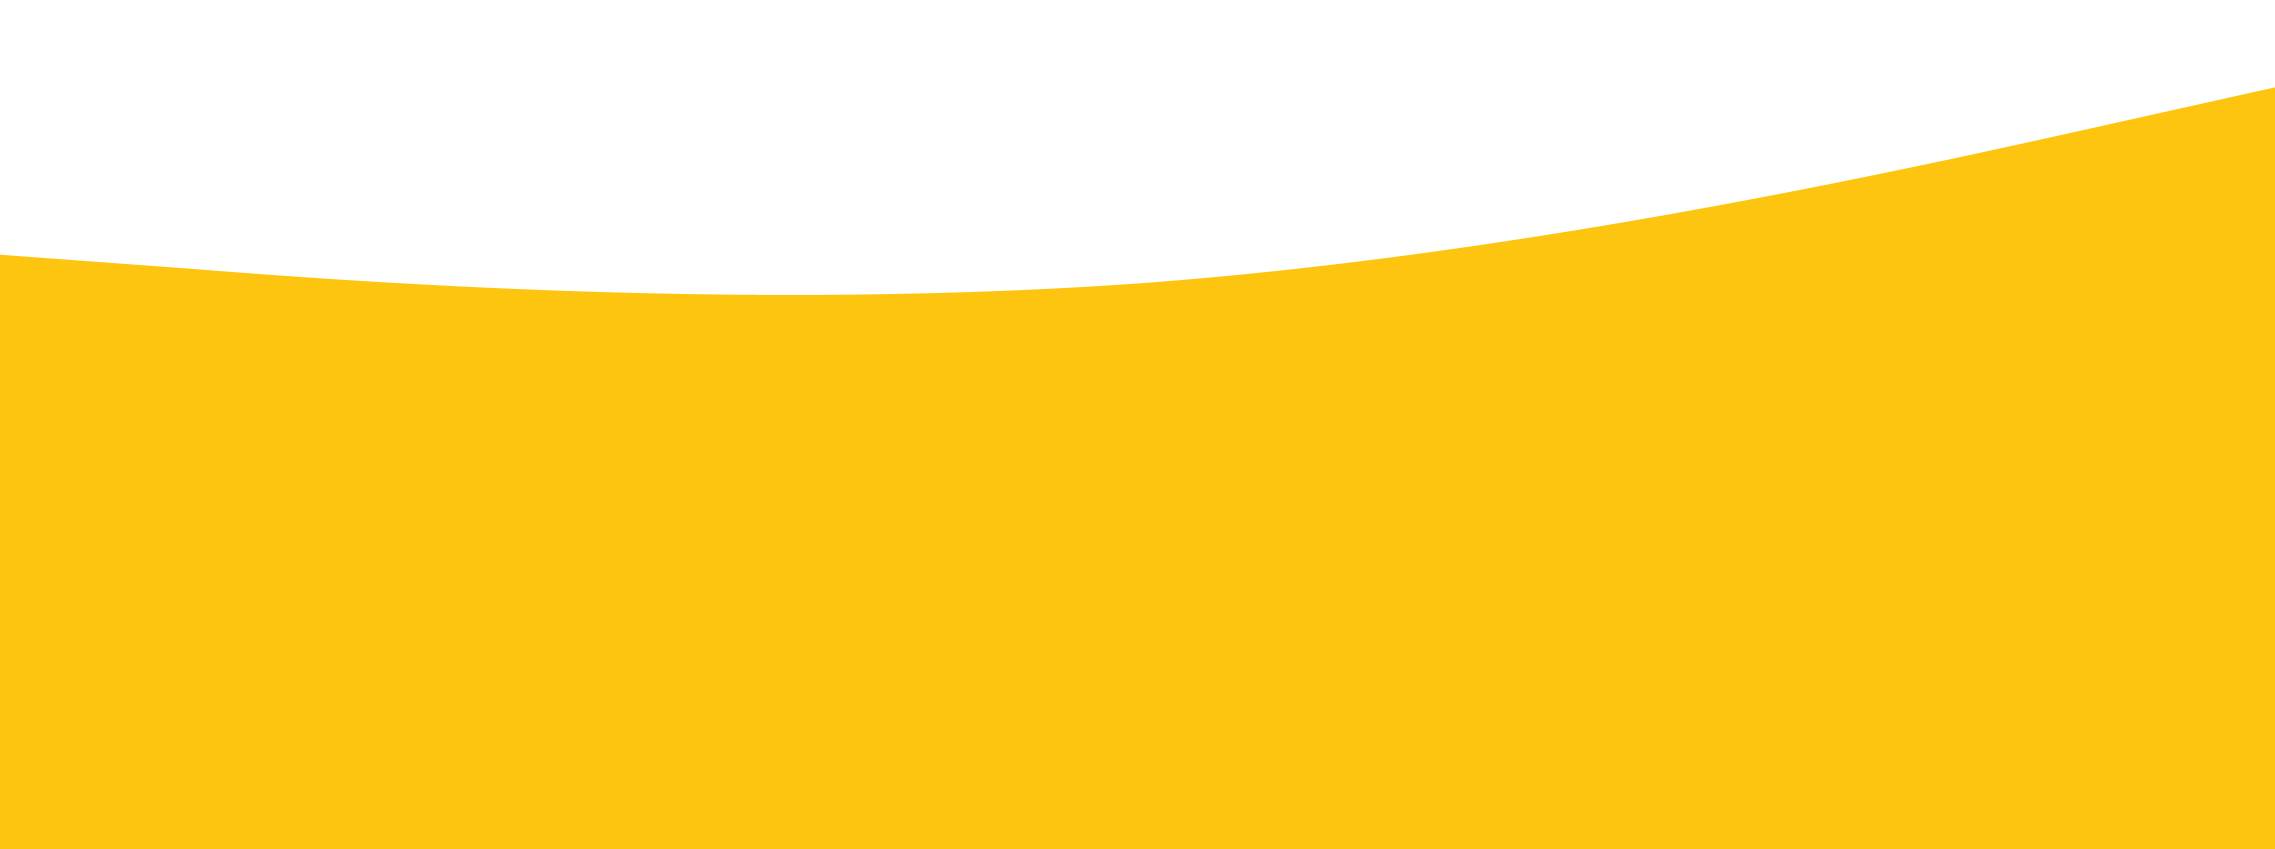
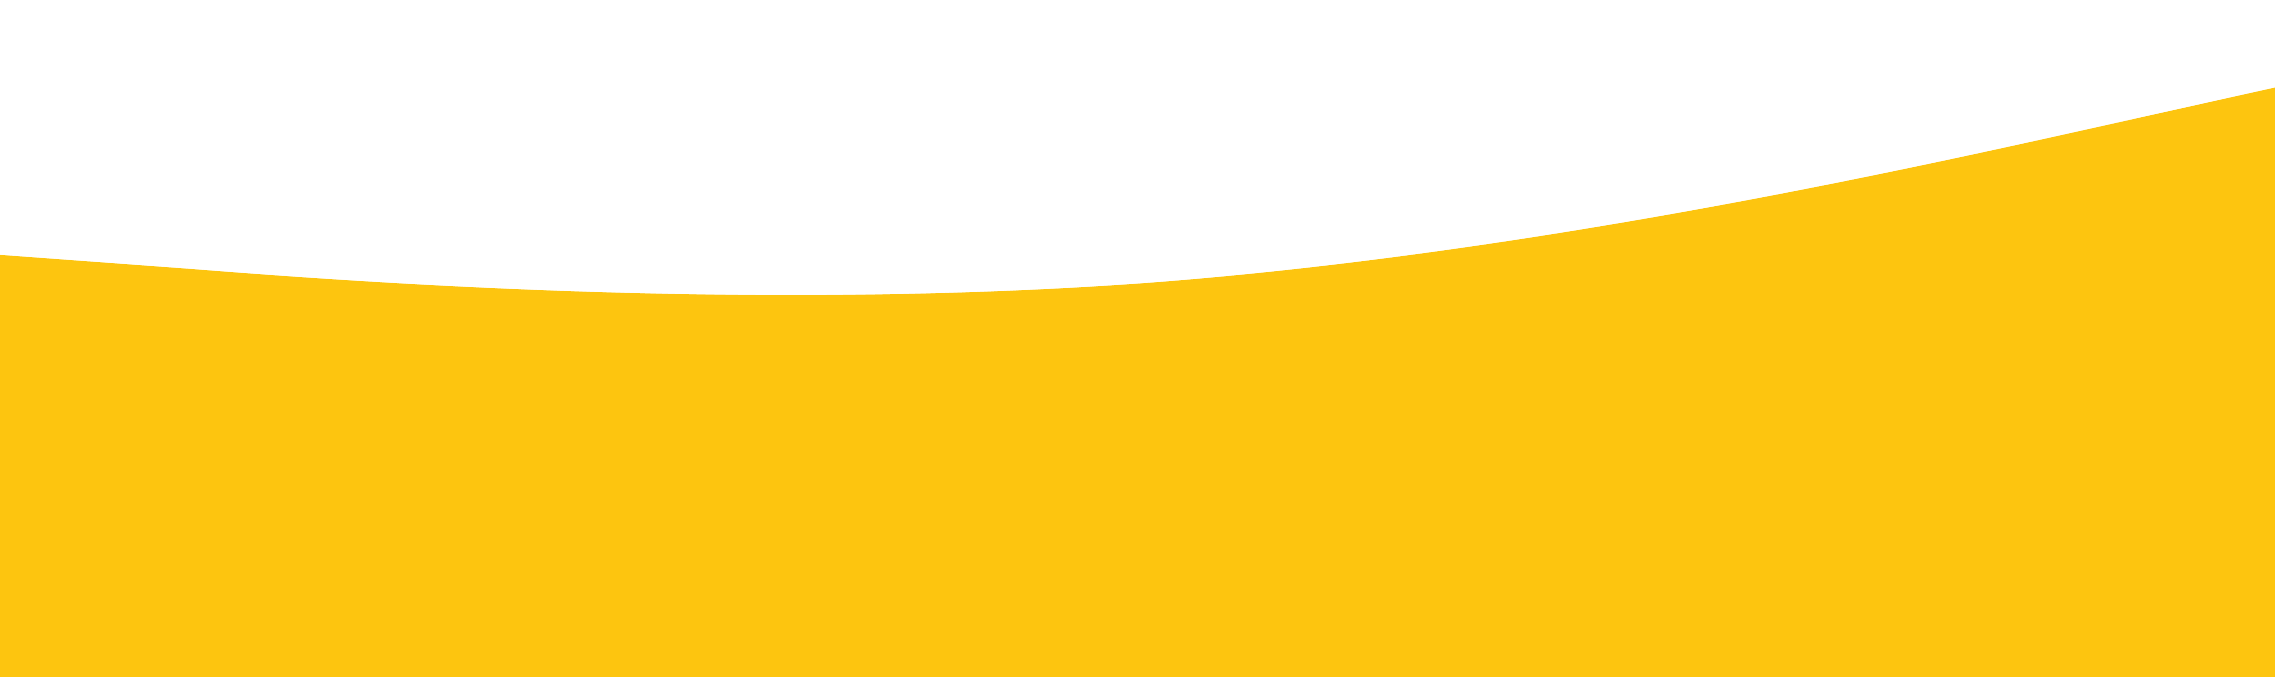
Added Footer and Toggle button

Changed region(s): [[0.0, 0.0931, 1.0, 0.4343]]

diff --git a/src/Components/Services/Services.jsx b/src/Components/Services/Services.jsx
@@ -12,8 +12,7 @@ const Services = () => {
         <div className="s-details">
         <span>My</span>
         <span>Services</span>
-        <span>Lorem ipsum dolor, sit amet consectetur adipisicing elit. Dolores aperiam omnis fugiat,<br></br>
-            cum nostrum ea, quas saepe eligendi expedita placeat delectus exercitationem rem!
+        <span>I am Saurab Negi, currently pursuing a Master of Computer Applications. My passion lies<br></br> in web development, where I've honed skills in both frontend and backend technologies.<br></br> Proficient in HTML, CSS, JavaScript, Bootstrap, React for frontend, and Node.js,<br></br> Express.js, EJS, REST APIs, and MongoDB for backend. I've successfully<br></br> crafted numerous projects showcasing my expertise in these areas.<br></br> Looking forward to contributing my knowledge and creativity to<br></br> meaningful endeavors in the field of web development.
         </span>
         <a href={Resume} download><button className="button s-button">Resume</button></a>
         <div className="blur s-blur1" style={{background: "#ABF1FF94"}}></div>

diff --git a/src/App.jsx b/src/App.jsx
@@ -1,15 +1,26 @@
+import './App.css'
 import Navbar from "./Components/Navbar/Navbar"
 import Intro from "./Components/Intro/Intro";
 import Services from "./Components/Services/Services";
 import Experience from "./Components/Experience/Experience";
 import Works from "./Components/Works/Works";
-import './App.css'
 import Portfolio from "./Components/Portfolio/Portfolio";
 import Contact from "./Components/Contact/Contact";
+import Footer from "./Components/Footer/Footer";
+import { themeContext } from './Context';
+import { useContext } from 'react';
 
 function App(){
-  return(
-    <div className="App">
+  const theme = useContext(themeContext);
+  const darkMode = theme.state.darkMode;
+  return (
+    <div
+      className="App"
+      style={{
+        background: darkMode ? "black" : "",
+        color: darkMode ? "white" : "",
+      }}
+    >
       <Navbar />
       <Intro />
       <Services />
@@ -17,6 +28,7 @@ function App(){
       <Works />
       <Portfolio />
       <Contact />
+      <Footer />
     </div>
   );
 }

diff --git a/src/Components/Intro/Intro.jsx b/src/Components/Intro/Intro.jsx
@@ -17,9 +17,8 @@ const Intro = () => {
             <div className="i-name">
                 <span>Hi! I Am</span>
                 <span>Saurab Negi</span>
-                <span>Frontend Developer with high level
-                    of experience in web designing and 
-                    development, producing the Quality work
+                <span>
+                    A student of Master of Computer Applications. My passion lies in web development,<br></br> where I've honed skills in both frontend and backend technologies. Proficient in<br></br> HTML, CSS, JavaScript, Bootstrap, React for frontend, and Node.js, Express.js,<br></br> EJS, REST APIs, and MongoDB for backend. I've successfully crafted numerous<br></br> projects showcasing my expertise in these areas. Looking forward to<br></br> contributing my knowledge and creativity to meaningful endeavors<br></br> in the field of web development.
                 </span>
             </div>
             <button className="button i-btn">Hire me</button>

diff --git a/src/Components/Footer/Footer.jsx b/src/Components/Footer/Footer.jsx
@@ -1,0 +1,23 @@
+import './Footer.css'
+import wave from '../../Images/wave.png'
+import Linkedin from '@iconscout/react-unicons/icons/uil-linkedin'
+import Github from '@iconscout/react-unicons/icons/uil-github'
+import Insta from '@iconscout/react-unicons/icons/uil-instagram'
+
+function Footer() {
+  return (
+    <div className='footer'>
+      <img src={wave} alt="" style={{width: '100%'}} />
+      <div className="f-content">
+        <span>saurabnegi17@gmail.com</span>
+            <div className="f-icons">
+                <a href="https://www.linkedin.com/in/saurab-negi-b06442285/"><Linkedin className='f-icon' color='white' size='3rem' /></a>
+                <a href="https://github.com/Saurab-Negi"><Github className='f-icon' color='white' size='3rem' /></a>
+                <a href="https://www.instagram.com/saurab_negi17/"><Insta className='f-icon' color='white' size='3rem' /></a>
+            </div>
+      </div>
+    </div>
+  )
+}
+
+export default Footer

diff --git a/src/Components/Navbar/Navbar.jsx b/src/Components/Navbar/Navbar.jsx
@@ -1,11 +1,12 @@
 import './Navbar.css'
+import Toggle from '../Toggle/Toggle'
 
 function Navbar() {
   return (
     <div className="n-wrapper">
         <div className="n-left">
             <div className="n-name">Saurab Negi</div>
-            <span className="Toggler">Toggle</span>
+            <Toggle />
         </div>
         <div className="n-right">
             <div className="n-list">
@@ -14,7 +15,7 @@ function Navbar() {
                     <li>Services</li>
                     <li>Project</li>
                     <li>Portfolio</li>
-                    <li>Testimonials</li>
+                    <li>Experience</li>
                 </ul>
             </div>
             <button className="button n-btn">Contact</button>

diff --git a/src/Context.jsx b/src/Context.jsx
@@ -1,0 +1,23 @@
+import { createContext, useReducer } from "react";
+
+export const themeContext = createContext();
+
+const initialState = { darkMode: false };
+
+const themeReducer = (state, action) => {
+  switch (action.type) {
+    case "toggle":
+        return { darkMode: !state.darkMode };
+      default:
+        return state;
+  }
+};
+
+export const ThemeProvider = (props) => {
+  const [state, dispatch] = useReducer(themeReducer, initialState);
+  return (
+    <themeContext.Provider value={{state, dispatch}}>{props.children}</themeContext.Provider>
+  );
+};
+
+//Some part is in main.jsx

diff --git a/src/main.jsx b/src/main.jsx
@@ -1,10 +1,12 @@
-import React from 'react'
-import ReactDOM from 'react-dom/client'
-import App from './App.jsx'
+import React from 'react';
+import ReactDOM from 'react-dom';
+import App from './App.jsx';
 // import './index.css'
+import { ThemeProvider } from './Context.jsx';
 
-ReactDOM.createRoot(document.getElementById('root')).render(
-  <React.StrictMode>
+ReactDOM.render(
+  <ThemeProvider>
     <App />
-  </React.StrictMode>,
-)
+  </ThemeProvider>,
+  document.getElementById('root')
+);

diff --git a/src/Components/Footer/Footer.css b/src/Components/Footer/Footer.css
@@ -1,0 +1,26 @@
+.footer{
+    display: flex;
+    align-items: center;
+    margin: -0.5rem -3.5rem;
+    position: relative;
+    margin-top: -10rem;
+}
+.f-content{
+    position: absolute;
+    display: flex;
+    justify-content: center;
+    align-items: center;
+    flex-direction: column;
+    width: 100%;
+    margin-top: 9rem;
+    gap: 2rem;
+    color: white;
+}
+.f-icons{
+    display: flex;
+    gap: 2rem;
+}
+.f-icon:hover{
+    cursor: pointer;
+    transform: scale(1.2);
+}

diff --git a/src/Components/Works/Works.jsx b/src/Components/Works/Works.jsx
@@ -14,8 +14,8 @@ function Works() {
     <div className="works">
       {/* left side */}
       <div className="s-details">
-        <span>Completed</span>
-        <span>projects</span>
+        <span>Technologies used in</span>
+        <span>Projects</span>
         <span>Lorem ipsum dolor, sit amet consectetur adipisicing elit. Dolores aperiam omnis fugiat,<br></br>
             cum nostrum ea, quas saepe eligendi expedita placeat delectus exercitationem rem!
         </span>

diff --git a/src/Components/Toggle/Toggle.css b/src/Components/Toggle/Toggle.css
@@ -1,0 +1,19 @@
+.toggle{
+    display: flex;
+    justify-content: space-between;
+    border: 3px solid var(--orange);
+    border-radius: 1rem;
+    position: relative;
+    padding: 2px;
+    cursor: pointer;
+}
+.toggle>*{
+    width: 1.25rem;
+    height: 1rem;
+    color: var(--orange);
+}
+.t-button{
+    border-radius: 100%;
+    background: var(--orange);
+    position: absolute;
+}

diff --git a/src/Components/Toggle/Toggle.jsx b/src/Components/Toggle/Toggle.jsx
@@ -1,0 +1,17 @@
+import './Toggle.css'
+import Sun from '@iconscout/react-unicons/icons/uil-sun'
+import Moon from '@iconscout/react-unicons/icons/uil-moon'
+
+function Toggle() {
+  return (
+    <div className='toggle'>
+      <Moon />
+      <Sun />
+      <div className="t-button">
+        
+      </div>
+    </div>
+  )
+}
+
+export default Toggle

diff --git a/src/Components/Floating/Floating.css b/src/Components/Floating/Floating.css
@@ -8,10 +8,11 @@
     padding: 0px 28px 0px 0px;
     height: 4.5rem;
 }
-.floating img{
-    transform: scale(0.2);
+.floating>img{
+    transform: scale(0.4);
 }
-.floating span{
+.floating>span{
     font-family: sans-serif;
     font-size: 16px;
+    color: black;
 }
